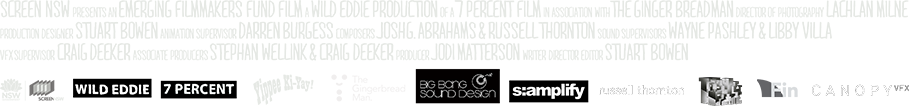
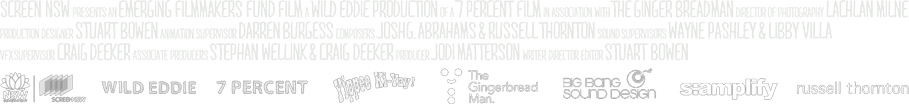
Updated credits image.

Changed region(s): [[0.0, 0.6509, 1.0, 1.0]]

diff --git a/README.md b/README.md
@@ -1,4 +1,4 @@
 WOODY – The animated short film
 ========================
 
-Static site for Stuart's animated short film, _WOODY_.
+Static site for _WOODY_, the animated short film.
